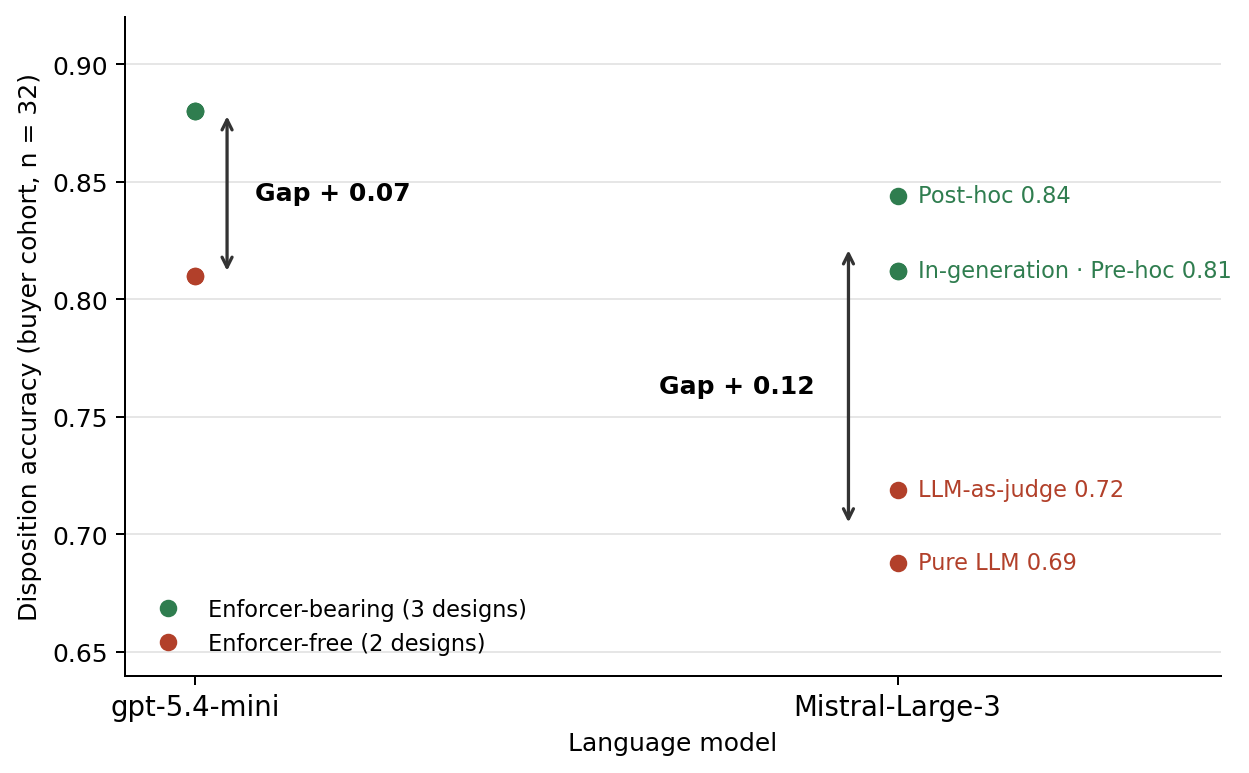
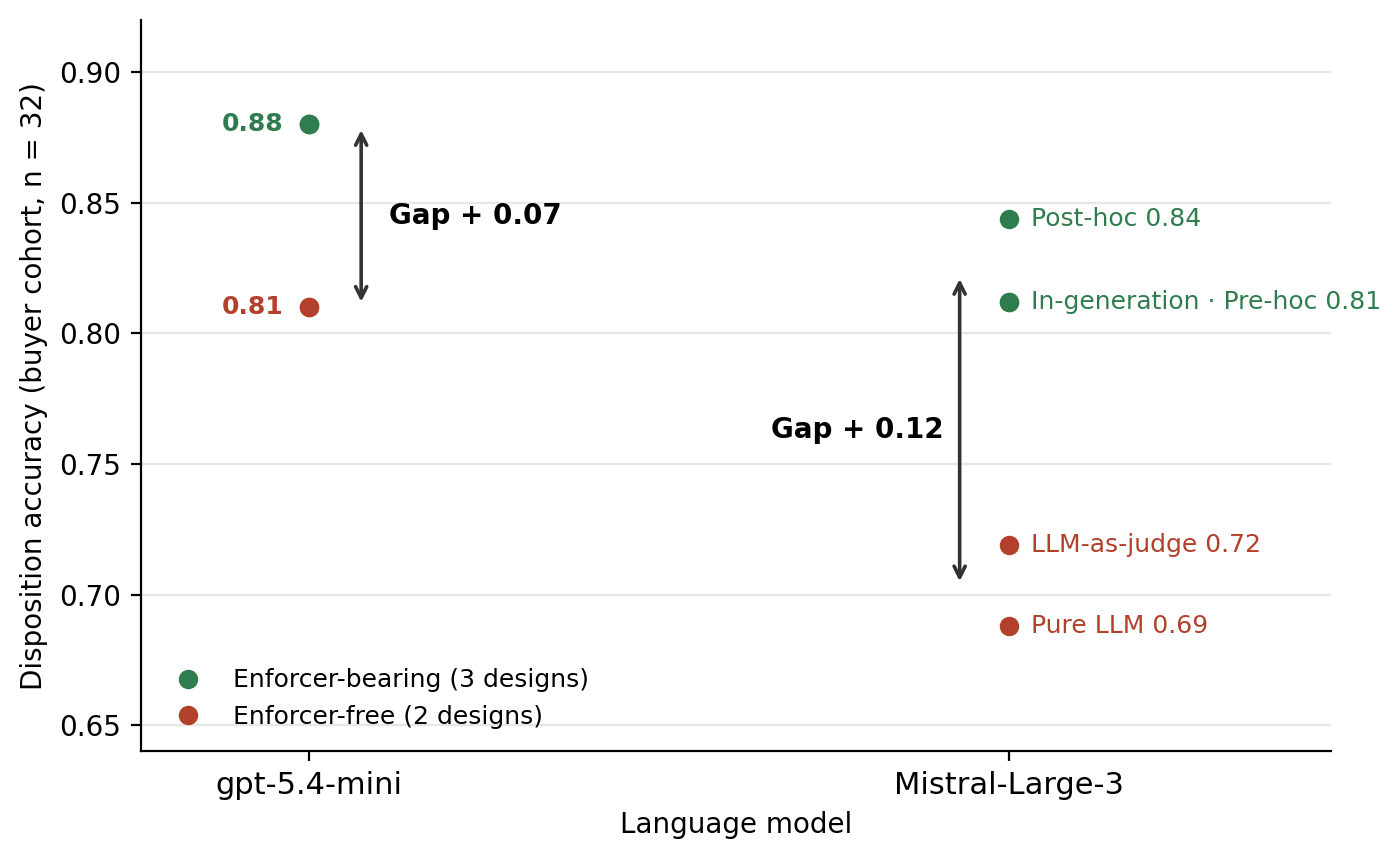
Label the gpt-5.4-mini points in Figure 5.4 and clarify its caption
The two left-hand dots were unlabelled: the three enforcer-bearing designs coincide
at 0.88 and the two enforcer-free at 0.81. Added the value labels (mirroring the
Mistral side) and a caption note so both columns read symmetrically.

diff --git a/thesis/5_results.tex b/thesis/5_results.tex
@@ -196,7 +196,7 @@ pre hoc       & 0.88 & 0.81 \\
 \begin{figure}[htb]
 \centering
 \includegraphics[width=0.82\textwidth]{Figures/fig_5_crossmodel_slopegraph_2.png}
-\caption{Cross-model enforcer gap: buyer cohort disposition accuracy of the 5 designs under the primary model (gpt-5.4-mini) and a second model from a different family (Mistral-Large-3).}
+\caption{Cross-model enforcer gap: buyer cohort disposition accuracy of the 5 designs under the primary model (gpt-5.4-mini) and a second model from a different family (Mistral-Large-3). Under gpt-5.4-mini the 3 enforcer-bearing designs coincide at 0.88 and the 2 enforcer-free designs at 0.81, so each class appears as a single point; under Mistral-Large-3 the designs separate and are labelled individually.}
 \label{fig:results:crossmodel}
 \end{figure}
 